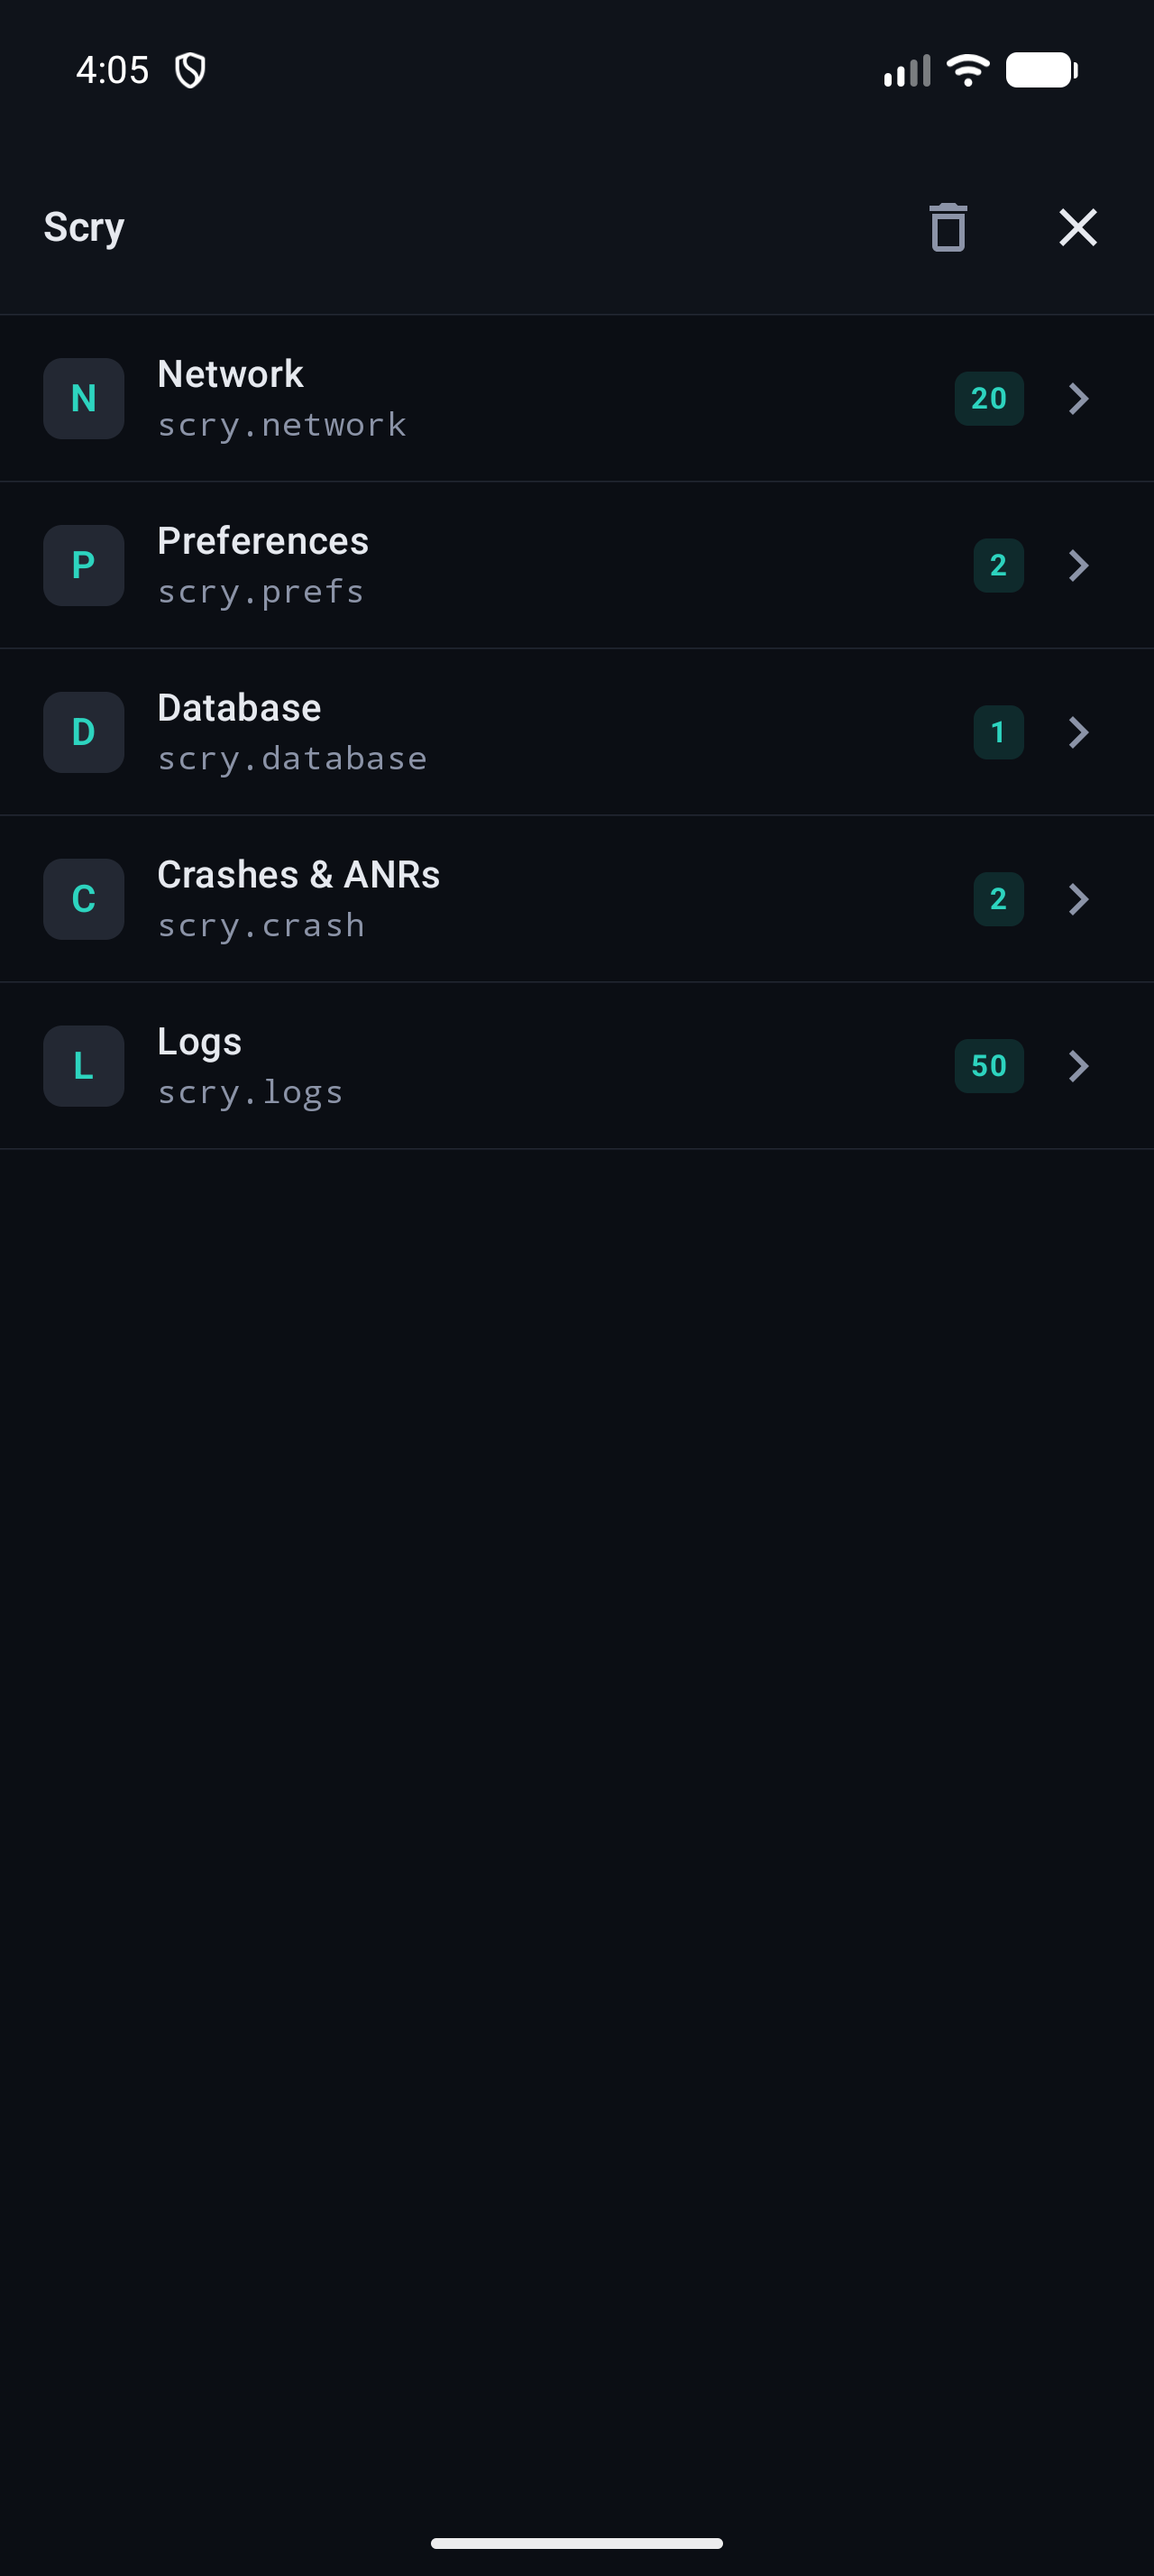
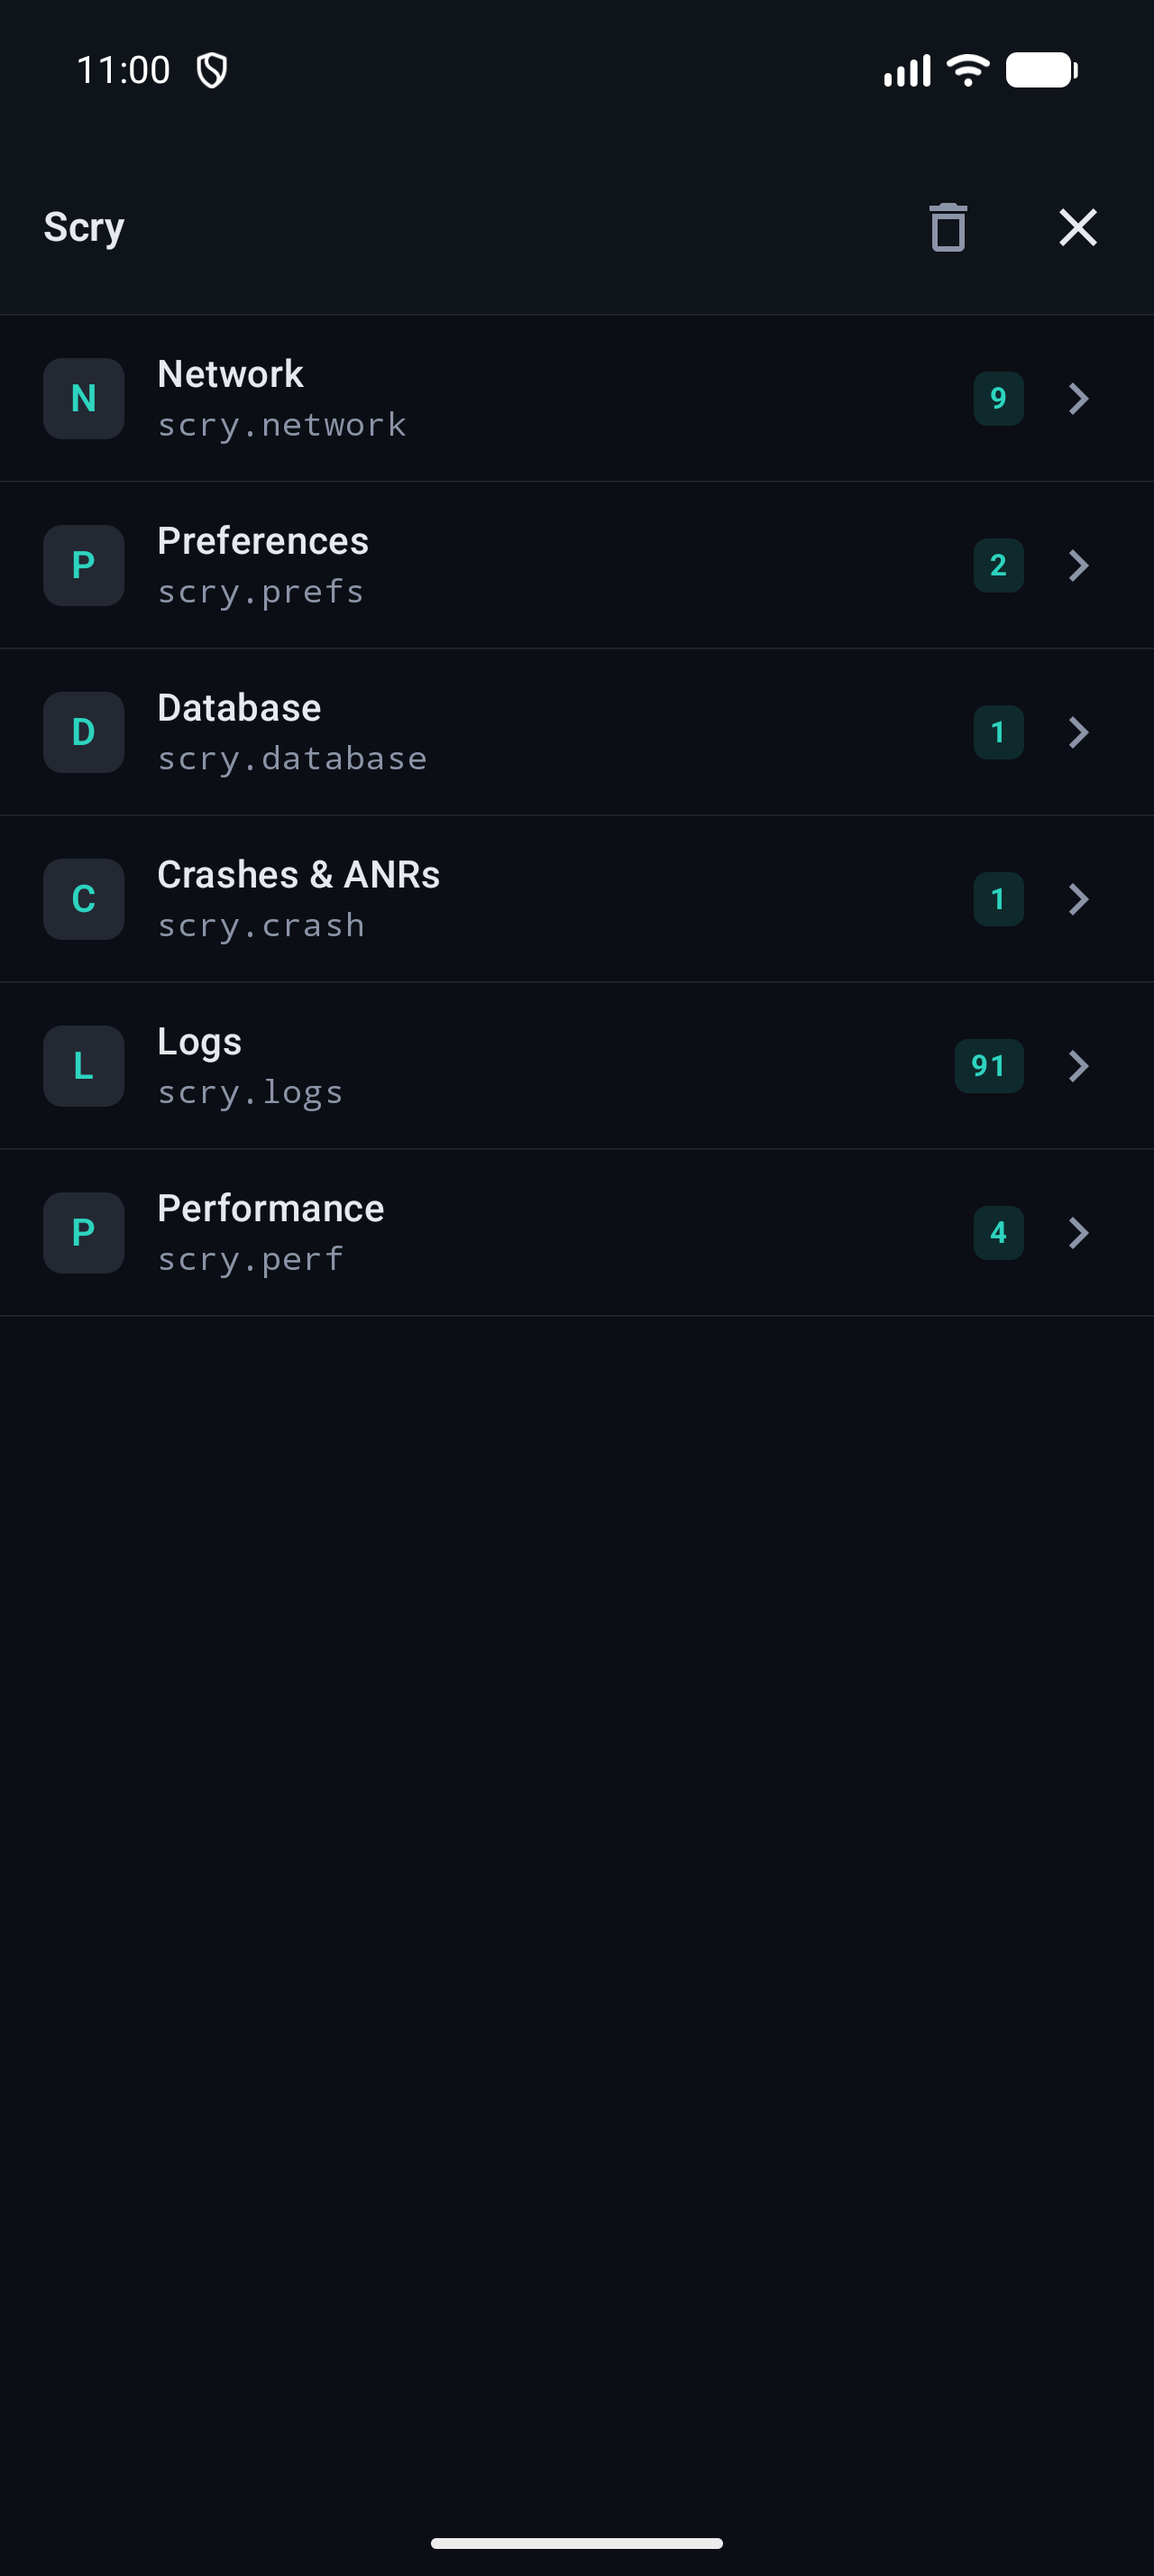
Updated screenshot for Performance tracking

diff --git a/README.md b/README.md
@@ -40,8 +40,10 @@ that the API is expressive enough for anyone else's plugin — they use exactly 
 </p>
 <p align="center">
   <img src="docs/screenshots/mocks.png" width="24%" alt="Mocking, throttling and offline controls" />
-<p align="center">
+  <img src="docs/screenshots/performance.png" width="24%" alt="Startup phases, screen load and frame timing checked against budgets" />
   <img src="docs/screenshots/logs.png" width="24%" alt="Log viewer with level filtering" />
+</p>
+<p align="center">
   <img src="docs/screenshots/preferences.png" width="24%" alt="Typed preferences editor" />
   <img src="docs/screenshots/database.png" width="24%" alt="Database table browser" />
   <img src="docs/screenshots/crash.png" width="24%" alt="Crash report with network context attached" />
@@ -518,8 +520,9 @@ ScryTrace.measure("checkout") { placeOrder(cart) }
 
 Cold/warm startup broken into phases, per-screen time-to-initial-display, frame timing with
 percentiles and slow/frozen counts, and manual spans — all on-device, in a debug build, while you
-use the app. Numbers are checked against budgets you set; breaking one badges the plugin red,
-publishes a `PerfViolationEvent`, and calls your `onViolation` hook if you registered one.
+use the app. Numbers are checked against budgets you set; breaking one counts on the plugin's badge,
+lists it in red under **Over budget**, publishes a `PerfViolationEvent`, and calls your `onViolation`
+hook if you registered one.
 
 Each launch is kept as a **session**, so the Sessions tab compares this run against the last 20.
 Recent measurements are attached to crash reports, and the whole history exports as JSON or CSV.
